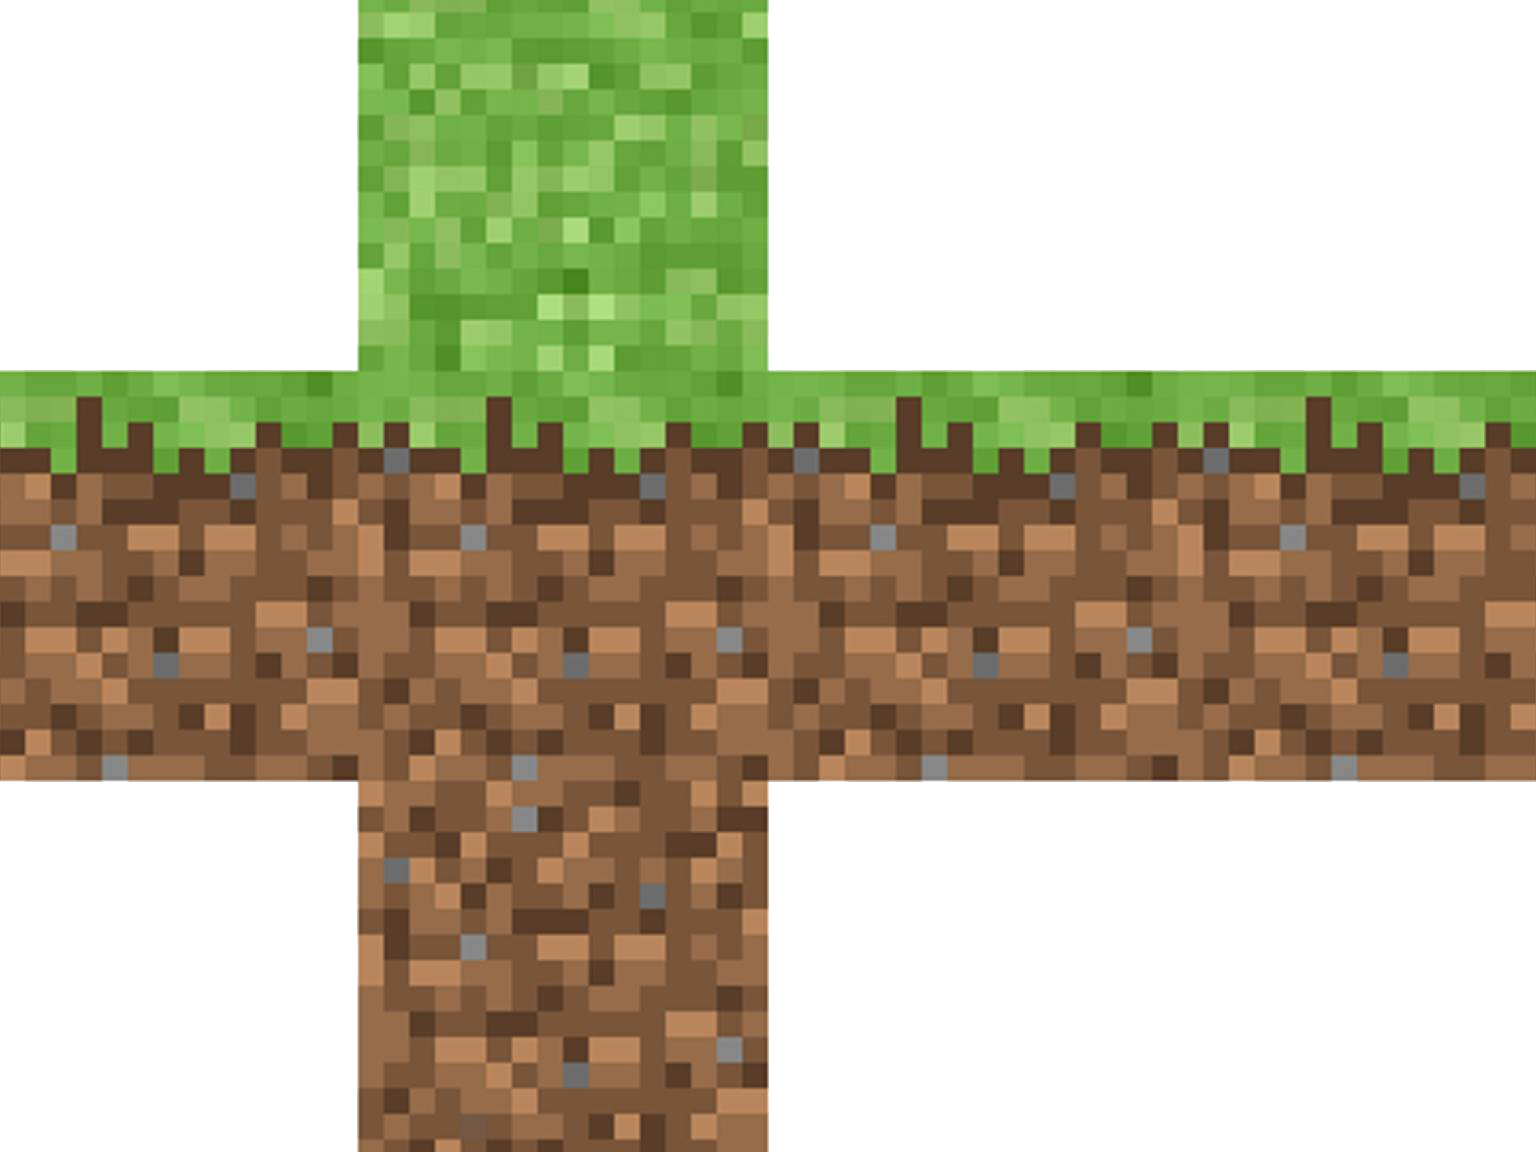
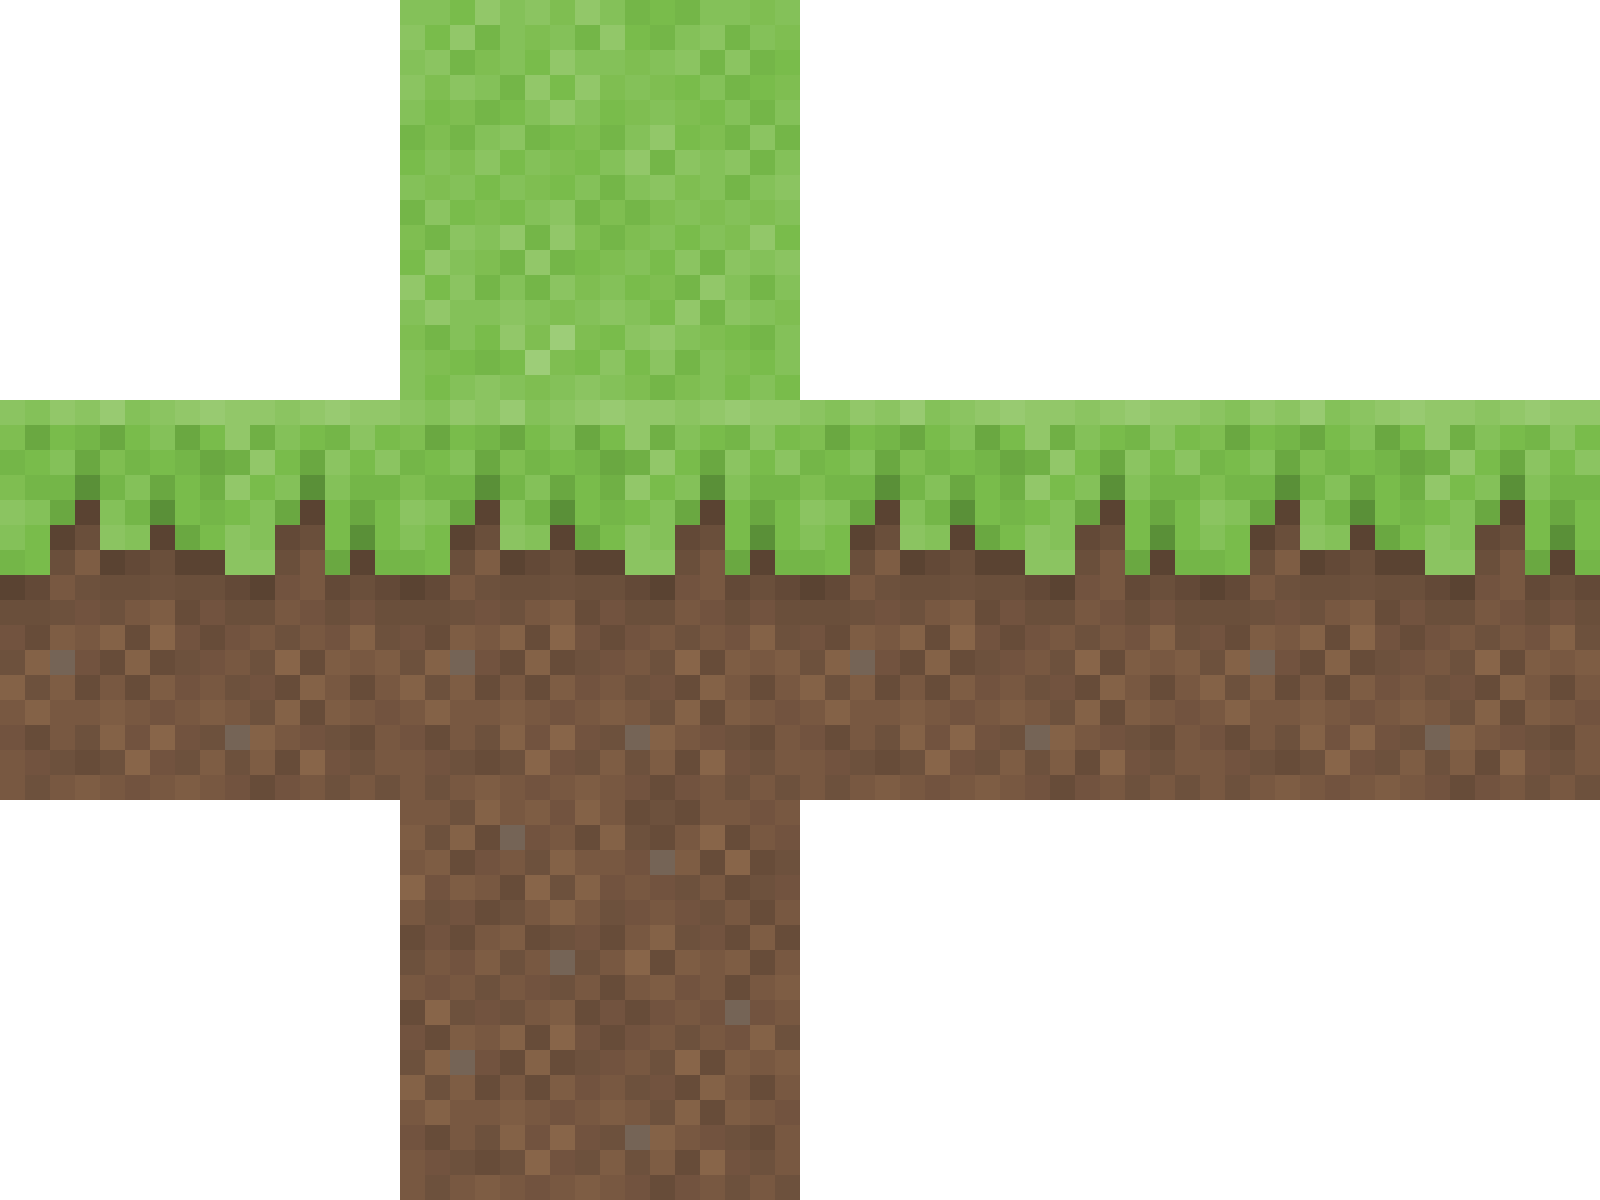
fix: texture bleeding

diff --git a/src/World/Objects/Cube.cpp b/src/World/Objects/Cube.cpp
@@ -28,111 +28,118 @@ Cube::Cube(glm::vec3 position, std::string _texturePath)
 
     // Cube corners (see Cube.hpp): 0..3 top (front-left, back-left, back-right, front-right),
     //                              4..7 bottom (same order).
+    // Texture is a 4:3 cross unfolding (4 cells wide x 3 cells tall)
+    // y is 0 or 1/3 for bottom face, 1/3 or 2/3 for side faces, 2/3 or 1 for top face
+
+    constexpr float sLo = 1.0f / 3.0f;
+    constexpr float sHi = 2.0f / 3.0f;
+    constexpr float bCtr = 1.0f / 6.0f;
+    constexpr float tCtr = 5.0f / 6.0f;
     // clang-format off
     std::vector<float> verticesT = {
         // Position           // Texture        // Normal             // Shading
 
         // -Z (back) face — perimeter v6 → v5 → v1 → v2, center at (0, 0, -0.5)
-         0.5f, -0.5f, -0.5f,  0.25f,  0.25f,    0.0f,  0.0f, -1.0f,  (float)vs(6, Face::NegZ),
-        -0.5f, -0.5f, -0.5f,  0.5f,   0.25f,    0.0f,  0.0f, -1.0f,  (float)vs(5, Face::NegZ),
+         0.5f, -0.5f, -0.5f,  0.25f,  sLo,      0.0f,  0.0f, -1.0f,  (float)vs(6, Face::NegZ),
+        -0.5f, -0.5f, -0.5f,  0.5f,   sLo,      0.0f,  0.0f, -1.0f,  (float)vs(5, Face::NegZ),
          0.0f,  0.0f, -0.5f,  0.375f, 0.5f,     0.0f,  0.0f, -1.0f,  cNegZ,
 
-        -0.5f, -0.5f, -0.5f,  0.5f,   0.25f,    0.0f,  0.0f, -1.0f,  (float)vs(5, Face::NegZ),
-        -0.5f,  0.5f, -0.5f,  0.5f,   0.75f,    0.0f,  0.0f, -1.0f,  (float)vs(1, Face::NegZ),
+        -0.5f, -0.5f, -0.5f,  0.5f,   sLo,      0.0f,  0.0f, -1.0f,  (float)vs(5, Face::NegZ),
+        -0.5f,  0.5f, -0.5f,  0.5f,   sHi,      0.0f,  0.0f, -1.0f,  (float)vs(1, Face::NegZ),
          0.0f,  0.0f, -0.5f,  0.375f, 0.5f,     0.0f,  0.0f, -1.0f,  cNegZ,
 
-        -0.5f,  0.5f, -0.5f,  0.5f,   0.75f,    0.0f,  0.0f, -1.0f,  (float)vs(1, Face::NegZ),
-         0.5f,  0.5f, -0.5f,  0.25f,  0.75f,    0.0f,  0.0f, -1.0f,  (float)vs(2, Face::NegZ),
+        -0.5f,  0.5f, -0.5f,  0.5f,   sHi,      0.0f,  0.0f, -1.0f,  (float)vs(1, Face::NegZ),
+         0.5f,  0.5f, -0.5f,  0.25f,  sHi,      0.0f,  0.0f, -1.0f,  (float)vs(2, Face::NegZ),
          0.0f,  0.0f, -0.5f,  0.375f, 0.5f,     0.0f,  0.0f, -1.0f,  cNegZ,
 
-         0.5f,  0.5f, -0.5f,  0.25f,  0.75f,    0.0f,  0.0f, -1.0f,  (float)vs(2, Face::NegZ),
-         0.5f, -0.5f, -0.5f,  0.25f,  0.25f,    0.0f,  0.0f, -1.0f,  (float)vs(6, Face::NegZ),
+         0.5f,  0.5f, -0.5f,  0.25f,  sHi,      0.0f,  0.0f, -1.0f,  (float)vs(2, Face::NegZ),
+         0.5f, -0.5f, -0.5f,  0.25f,  sLo,      0.0f,  0.0f, -1.0f,  (float)vs(6, Face::NegZ),
          0.0f,  0.0f, -0.5f,  0.375f, 0.5f,     0.0f,  0.0f, -1.0f,  cNegZ,
 
         // +Z (front) face — perimeter v4 → v7 → v3 → v0, center at (0, 0, 0.5)
-        -0.5f, -0.5f,  0.5f,  0.5f,   0.25f,    0.0f,  0.0f,  1.0f,  (float)vs(4, Face::PosZ),
-         0.5f, -0.5f,  0.5f,  0.25f,  0.25f,    0.0f,  0.0f,  1.0f,  (float)vs(7, Face::PosZ),
+        -0.5f, -0.5f,  0.5f,  0.5f,   sLo,      0.0f,  0.0f,  1.0f,  (float)vs(4, Face::PosZ),
+         0.5f, -0.5f,  0.5f,  0.25f,  sLo,      0.0f,  0.0f,  1.0f,  (float)vs(7, Face::PosZ),
          0.0f,  0.0f,  0.5f,  0.375f, 0.5f,     0.0f,  0.0f,  1.0f,  cPosZ,
 
-         0.5f, -0.5f,  0.5f,  0.25f,  0.25f,    0.0f,  0.0f,  1.0f,  (float)vs(7, Face::PosZ),
-         0.5f,  0.5f,  0.5f,  0.25f,  0.75f,    0.0f,  0.0f,  1.0f,  (float)vs(3, Face::PosZ),
+         0.5f, -0.5f,  0.5f,  0.25f,  sLo,      0.0f,  0.0f,  1.0f,  (float)vs(7, Face::PosZ),
+         0.5f,  0.5f,  0.5f,  0.25f,  sHi,      0.0f,  0.0f,  1.0f,  (float)vs(3, Face::PosZ),
          0.0f,  0.0f,  0.5f,  0.375f, 0.5f,     0.0f,  0.0f,  1.0f,  cPosZ,
 
-         0.5f,  0.5f,  0.5f,  0.25f,  0.75f,    0.0f,  0.0f,  1.0f,  (float)vs(3, Face::PosZ),
-        -0.5f,  0.5f,  0.5f,  0.5f,   0.75f,    0.0f,  0.0f,  1.0f,  (float)vs(0, Face::PosZ),
+         0.5f,  0.5f,  0.5f,  0.25f,  sHi,      0.0f,  0.0f,  1.0f,  (float)vs(3, Face::PosZ),
+        -0.5f,  0.5f,  0.5f,  0.5f,   sHi,      0.0f,  0.0f,  1.0f,  (float)vs(0, Face::PosZ),
          0.0f,  0.0f,  0.5f,  0.375f, 0.5f,     0.0f,  0.0f,  1.0f,  cPosZ,
 
-        -0.5f,  0.5f,  0.5f,  0.5f,   0.75f,    0.0f,  0.0f,  1.0f,  (float)vs(0, Face::PosZ),
-        -0.5f, -0.5f,  0.5f,  0.5f,   0.25f,    0.0f,  0.0f,  1.0f,  (float)vs(4, Face::PosZ),
+        -0.5f,  0.5f,  0.5f,  0.5f,   sHi,      0.0f,  0.0f,  1.0f,  (float)vs(0, Face::PosZ),
+        -0.5f, -0.5f,  0.5f,  0.5f,   sLo,      0.0f,  0.0f,  1.0f,  (float)vs(4, Face::PosZ),
          0.0f,  0.0f,  0.5f,  0.375f, 0.5f,     0.0f,  0.0f,  1.0f,  cPosZ,
 
         // -X (left) face — perimeter v0 → v1 → v5 → v4, center at (-0.5, 0, 0)
-        -0.5f,  0.5f,  0.5f,  0.25f,  0.75f,   -1.0f,  0.0f,  0.0f,  (float)vs(0, Face::NegX),
-        -0.5f,  0.5f, -0.5f,  0.5f,   0.75f,   -1.0f,  0.0f,  0.0f,  (float)vs(1, Face::NegX),
+        -0.5f,  0.5f,  0.5f,  0.25f,  sHi,     -1.0f,  0.0f,  0.0f,  (float)vs(0, Face::NegX),
+        -0.5f,  0.5f, -0.5f,  0.5f,   sHi,     -1.0f,  0.0f,  0.0f,  (float)vs(1, Face::NegX),
         -0.5f,  0.0f,  0.0f,  0.375f, 0.5f,    -1.0f,  0.0f,  0.0f,  cNegX,
 
-        -0.5f,  0.5f, -0.5f,  0.5f,   0.75f,   -1.0f,  0.0f,  0.0f,  (float)vs(1, Face::NegX),
-        -0.5f, -0.5f, -0.5f,  0.5f,   0.25f,   -1.0f,  0.0f,  0.0f,  (float)vs(5, Face::NegX),
+        -0.5f,  0.5f, -0.5f,  0.5f,   sHi,     -1.0f,  0.0f,  0.0f,  (float)vs(1, Face::NegX),
+        -0.5f, -0.5f, -0.5f,  0.5f,   sLo,     -1.0f,  0.0f,  0.0f,  (float)vs(5, Face::NegX),
         -0.5f,  0.0f,  0.0f,  0.375f, 0.5f,    -1.0f,  0.0f,  0.0f,  cNegX,
 
-        -0.5f, -0.5f, -0.5f,  0.5f,   0.25f,   -1.0f,  0.0f,  0.0f,  (float)vs(5, Face::NegX),
-        -0.5f, -0.5f,  0.5f,  0.25f,  0.25f,   -1.0f,  0.0f,  0.0f,  (float)vs(4, Face::NegX),
+        -0.5f, -0.5f, -0.5f,  0.5f,   sLo,     -1.0f,  0.0f,  0.0f,  (float)vs(5, Face::NegX),
+        -0.5f, -0.5f,  0.5f,  0.25f,  sLo,     -1.0f,  0.0f,  0.0f,  (float)vs(4, Face::NegX),
         -0.5f,  0.0f,  0.0f,  0.375f, 0.5f,    -1.0f,  0.0f,  0.0f,  cNegX,
 
-        -0.5f, -0.5f,  0.5f,  0.25f,  0.25f,   -1.0f,  0.0f,  0.0f,  (float)vs(4, Face::NegX),
-        -0.5f,  0.5f,  0.5f,  0.25f,  0.75f,   -1.0f,  0.0f,  0.0f,  (float)vs(0, Face::NegX),
+        -0.5f, -0.5f,  0.5f,  0.25f,  sLo,     -1.0f,  0.0f,  0.0f,  (float)vs(4, Face::NegX),
+        -0.5f,  0.5f,  0.5f,  0.25f,  sHi,     -1.0f,  0.0f,  0.0f,  (float)vs(0, Face::NegX),
         -0.5f,  0.0f,  0.0f,  0.375f, 0.5f,    -1.0f,  0.0f,  0.0f,  cNegX,
 
         // +X (right) face — perimeter v3 → v7 → v6 → v2, center at (0.5, 0, 0)
-         0.5f,  0.5f,  0.5f,  0.5f,   0.75f,    1.0f,  0.0f,  0.0f,  (float)vs(3, Face::PosX),
-         0.5f, -0.5f,  0.5f,  0.5f,   0.25f,    1.0f,  0.0f,  0.0f,  (float)vs(7, Face::PosX),
+         0.5f,  0.5f,  0.5f,  0.5f,   sHi,      1.0f,  0.0f,  0.0f,  (float)vs(3, Face::PosX),
+         0.5f, -0.5f,  0.5f,  0.5f,   sLo,      1.0f,  0.0f,  0.0f,  (float)vs(7, Face::PosX),
          0.5f,  0.0f,  0.0f,  0.375f, 0.5f,     1.0f,  0.0f,  0.0f,  cPosX,
 
-         0.5f, -0.5f,  0.5f,  0.5f,   0.25f,    1.0f,  0.0f,  0.0f,  (float)vs(7, Face::PosX),
-         0.5f, -0.5f, -0.5f,  0.25f,  0.25f,    1.0f,  0.0f,  0.0f,  (float)vs(6, Face::PosX),
+         0.5f, -0.5f,  0.5f,  0.5f,   sLo,      1.0f,  0.0f,  0.0f,  (float)vs(7, Face::PosX),
+         0.5f, -0.5f, -0.5f,  0.25f,  sLo,      1.0f,  0.0f,  0.0f,  (float)vs(6, Face::PosX),
          0.5f,  0.0f,  0.0f,  0.375f, 0.5f,     1.0f,  0.0f,  0.0f,  cPosX,
 
-         0.5f, -0.5f, -0.5f,  0.25f,  0.25f,    1.0f,  0.0f,  0.0f,  (float)vs(6, Face::PosX),
-         0.5f,  0.5f, -0.5f,  0.25f,  0.75f,    1.0f,  0.0f,  0.0f,  (float)vs(2, Face::PosX),
+         0.5f, -0.5f, -0.5f,  0.25f,  sLo,      1.0f,  0.0f,  0.0f,  (float)vs(6, Face::PosX),
+         0.5f,  0.5f, -0.5f,  0.25f,  sHi,      1.0f,  0.0f,  0.0f,  (float)vs(2, Face::PosX),
          0.5f,  0.0f,  0.0f,  0.375f, 0.5f,     1.0f,  0.0f,  0.0f,  cPosX,
 
-         0.5f,  0.5f, -0.5f,  0.25f,  0.75f,    1.0f,  0.0f,  0.0f,  (float)vs(2, Face::PosX),
-         0.5f,  0.5f,  0.5f,  0.5f,   0.75f,    1.0f,  0.0f,  0.0f,  (float)vs(3, Face::PosX),
+         0.5f,  0.5f, -0.5f,  0.25f,  sHi,      1.0f,  0.0f,  0.0f,  (float)vs(2, Face::PosX),
+         0.5f,  0.5f,  0.5f,  0.5f,   sHi,      1.0f,  0.0f,  0.0f,  (float)vs(3, Face::PosX),
          0.5f,  0.0f,  0.0f,  0.375f, 0.5f,     1.0f,  0.0f,  0.0f,  cPosX,
 
         // -Y (bottom) face — perimeter v5 → v6 → v7 → v4, center at (0, -0.5, 0)
         -0.5f, -0.5f, -0.5f,  0.25f,  0.0f,     0.0f, -1.0f,  0.0f,  (float)vs(5, Face::NegY),
-         0.5f, -0.5f, -0.5f,  0.25f,  0.25f,    0.0f, -1.0f,  0.0f,  (float)vs(6, Face::NegY),
-         0.0f, -0.5f,  0.0f,  0.375f, 0.125f,   0.0f, -1.0f,  0.0f,  cNegY,
+         0.5f, -0.5f, -0.5f,  0.25f,  sLo,      0.0f, -1.0f,  0.0f,  (float)vs(6, Face::NegY),
+         0.0f, -0.5f,  0.0f,  0.375f, bCtr,     0.0f, -1.0f,  0.0f,  cNegY,
 
-         0.5f, -0.5f, -0.5f,  0.25f,  0.25f,    0.0f, -1.0f,  0.0f,  (float)vs(6, Face::NegY),
-         0.5f, -0.5f,  0.5f,  0.5f,   0.25f,    0.0f, -1.0f,  0.0f,  (float)vs(7, Face::NegY),
-         0.0f, -0.5f,  0.0f,  0.375f, 0.125f,   0.0f, -1.0f,  0.0f,  cNegY,
+         0.5f, -0.5f, -0.5f,  0.25f,  sLo,      0.0f, -1.0f,  0.0f,  (float)vs(6, Face::NegY),
+         0.5f, -0.5f,  0.5f,  0.5f,   sLo,      0.0f, -1.0f,  0.0f,  (float)vs(7, Face::NegY),
+         0.0f, -0.5f,  0.0f,  0.375f, bCtr,     0.0f, -1.0f,  0.0f,  cNegY,
 
-         0.5f, -0.5f,  0.5f,  0.5f,   0.25f,    0.0f, -1.0f,  0.0f,  (float)vs(7, Face::NegY),
+         0.5f, -0.5f,  0.5f,  0.5f,   sLo,      0.0f, -1.0f,  0.0f,  (float)vs(7, Face::NegY),
         -0.5f, -0.5f,  0.5f,  0.5f,   0.0f,     0.0f, -1.0f,  0.0f,  (float)vs(4, Face::NegY),
-         0.0f, -0.5f,  0.0f,  0.375f, 0.125f,   0.0f, -1.0f,  0.0f,  cNegY,
+         0.0f, -0.5f,  0.0f,  0.375f, bCtr,     0.0f, -1.0f,  0.0f,  cNegY,
 
         -0.5f, -0.5f,  0.5f,  0.5f,   0.0f,     0.0f, -1.0f,  0.0f,  (float)vs(4, Face::NegY),
         -0.5f, -0.5f, -0.5f,  0.25f,  0.0f,     0.0f, -1.0f,  0.0f,  (float)vs(5, Face::NegY),
-         0.0f, -0.5f,  0.0f,  0.375f, 0.125f,   0.0f, -1.0f,  0.0f,  cNegY,
+         0.0f, -0.5f,  0.0f,  0.375f, bCtr,     0.0f, -1.0f,  0.0f,  cNegY,
 
         // +Y (top) face — perimeter v2 → v1 → v0 → v3, center at (0, 0.5, 0)
          0.5f,  0.5f, -0.5f,  0.25f,  1.0f,     0.0f,  1.0f,  0.0f,  (float)vs(2, Face::PosY),
-        -0.5f,  0.5f, -0.5f,  0.25f,  0.75f,    0.0f,  1.0f,  0.0f,  (float)vs(1, Face::PosY),
-         0.0f,  0.5f,  0.0f,  0.375f, 0.875f,   0.0f,  1.0f,  0.0f,  cPosY,
+        -0.5f,  0.5f, -0.5f,  0.25f,  sHi,      0.0f,  1.0f,  0.0f,  (float)vs(1, Face::PosY),
+         0.0f,  0.5f,  0.0f,  0.375f, tCtr,     0.0f,  1.0f,  0.0f,  cPosY,
 
-        -0.5f,  0.5f, -0.5f,  0.25f,  0.75f,    0.0f,  1.0f,  0.0f,  (float)vs(1, Face::PosY),
-        -0.5f,  0.5f,  0.5f,  0.5f,   0.75f,    0.0f,  1.0f,  0.0f,  (float)vs(0, Face::PosY),
-         0.0f,  0.5f,  0.0f,  0.375f, 0.875f,   0.0f,  1.0f,  0.0f,  cPosY,
+        -0.5f,  0.5f, -0.5f,  0.25f,  sHi,      0.0f,  1.0f,  0.0f,  (float)vs(1, Face::PosY),
+        -0.5f,  0.5f,  0.5f,  0.5f,   sHi,      0.0f,  1.0f,  0.0f,  (float)vs(0, Face::PosY),
+         0.0f,  0.5f,  0.0f,  0.375f, tCtr,     0.0f,  1.0f,  0.0f,  cPosY,
 
-        -0.5f,  0.5f,  0.5f,  0.5f,   0.75f,    0.0f,  1.0f,  0.0f,  (float)vs(0, Face::PosY),
+        -0.5f,  0.5f,  0.5f,  0.5f,   sHi,      0.0f,  1.0f,  0.0f,  (float)vs(0, Face::PosY),
          0.5f,  0.5f,  0.5f,  0.5f,   1.0f,     0.0f,  1.0f,  0.0f,  (float)vs(3, Face::PosY),
-         0.0f,  0.5f,  0.0f,  0.375f, 0.875f,   0.0f,  1.0f,  0.0f,  cPosY,
+         0.0f,  0.5f,  0.0f,  0.375f, tCtr,     0.0f,  1.0f,  0.0f,  cPosY,
 
          0.5f,  0.5f,  0.5f,  0.5f,   1.0f,     0.0f,  1.0f,  0.0f,  (float)vs(3, Face::PosY),
          0.5f,  0.5f, -0.5f,  0.25f,  1.0f,     0.0f,  1.0f,  0.0f,  (float)vs(2, Face::PosY),
-         0.0f,  0.5f,  0.0f,  0.375f, 0.875f,   0.0f,  1.0f,  0.0f,  cPosY,
+         0.0f,  0.5f,  0.0f,  0.375f, tCtr,     0.0f,  1.0f,  0.0f,  cPosY,
     };
 
     std::vector<int> indices = {

diff --git a/src/Graphics/GraphicsManager.cpp b/src/Graphics/GraphicsManager.cpp
@@ -150,16 +150,6 @@ unsigned int GraphicsManager::GenerateTexture(std::string path)
     glTexImage2D(GL_TEXTURE_2D, 0, GL_RGBA, width, height, 0, GL_RGBA, GL_UNSIGNED_BYTE, textureData);
     glGenerateMipmap(GL_TEXTURE_2D);
 
-    glBindTexture(GL_TEXTURE_2D, textureToGen);
-    // set wrapping / filtering options
-    glTexParameteri(GL_TEXTURE_2D, GL_TEXTURE_WRAP_S, GL_REPEAT);
-    glTexParameteri(GL_TEXTURE_2D, GL_TEXTURE_WRAP_T, GL_REPEAT);
-    glTexParameteri(GL_TEXTURE_2D, GL_TEXTURE_MIN_FILTER, GL_LINEAR_MIPMAP_LINEAR);
-    glTexParameteri(GL_TEXTURE_2D, GL_TEXTURE_MAG_FILTER, GL_LINEAR);
-
-    glTexImage2D(GL_TEXTURE_2D, 0, GL_RGBA, width, height, 0, GL_RGBA, GL_UNSIGNED_BYTE, textureData);
-    glGenerateMipmap(GL_TEXTURE_2D);
-
     stbi_image_free(textureData);
 
     return textureToGen;
